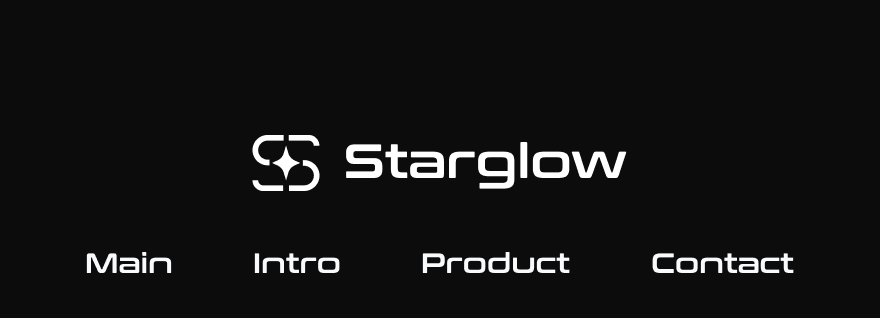
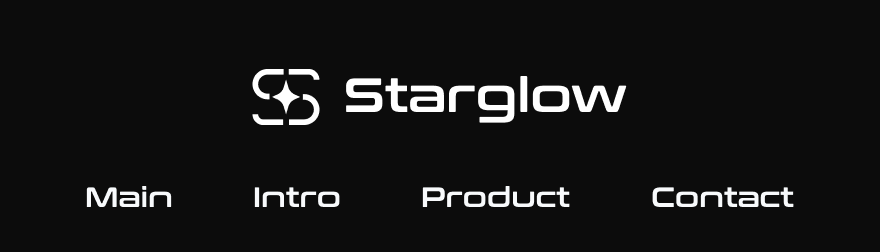
fix

diff --git a/app/components/Body.jsx b/app/components/Body.jsx
@@ -9,18 +9,17 @@ export default function Body() {
         className=""
         style={{
             position: 'relative',
-            marginTop: '5%',
         }}
         >
             <div className="Desktop" style={{
                 overflowX: 'hidden',
             }}>
             <Image
-                src="/images/body_2x.png"
+                src="/images/body.png"
                 alt="Header Image"
                 width={1920}
                 height={1080}
-                style={{ width: '100%', height: 'auto', transform: 'scale(1.35)', display: 'block', marginTop: '28%'}}
+                style={{ width: '100%', height: 'auto', transform: 'scale(1.35)', overflowY: 'hidden', display: 'block', paddingTop: '30%'}}
             />
                 {/* Gitbook Button
                 <a
@@ -44,7 +43,7 @@ export default function Body() {
                 href="#intro"
                 style={{
                     position: 'absolute',
-                    top: '15%',
+                    top: '20.6%',
                     left: '47.9%',
                     width: '4.2%',
                     height: '1.7%',
@@ -63,7 +62,7 @@ export default function Body() {
                 rel="noopener noreferrer"
                 style={{
                     position: 'absolute',
-                    top: '80.7%',
+                    top: '83.6%',
                     left: '13%',
                     width: '19%',
                     height: '1.75%',
@@ -99,7 +98,7 @@ export default function Body() {
                 rel="noopener noreferrer"
                 style={{
                     position: 'absolute',
-                    top: '98.2%',
+                    top: '100.65%',
                     left: '45.5%',
                     width: '2.2%',
                     height: '1%',
@@ -118,7 +117,7 @@ export default function Body() {
                 rel="noopener noreferrer"
                 style={{
                     position: 'absolute',
-                    top: '98.2%',
+                    top: '100.65%',
                     left: '52%',
                     width: '2.5%',
                     height: '1%',
@@ -137,7 +136,7 @@ export default function Body() {
                 rel="noopener noreferrer"
                 style={{
                     position: 'absolute',
-                    top: '98.2%',
+                    top: '100.65%',
                     left: '58.1%',
                     width: '3.65%',
                     height: '1%',
@@ -170,7 +169,7 @@ export default function Body() {
                 id='intro'
                 style={{
                     position: 'absolute',
-                    top: '17.5%',
+                    top: '27%',
                     left: '0%',
                     width: '100%',
                     height: '1%',
@@ -185,7 +184,7 @@ export default function Body() {
                 id='product'
                 style={{
                     position: 'absolute',
-                    top: '65%',
+                    top: '71%',
                     left: '0%',
                     width: '100%',
                     height: '1%',
@@ -200,7 +199,7 @@ export default function Body() {
                 id='contact'
                 style={{
                     position: 'absolute',
-                    top: '93%',
+                    top: '92%',
                     left: '0%',
                     width: '100%',
                     height: '1%',
@@ -226,7 +225,7 @@ export default function Body() {
                 href="#introM"
                 style={{
                     position: 'absolute',
-                    top: '12.3%',
+                    top: '12.36%',
                     left: '43%',
                     width: '14%',
                     height: '1%',
@@ -245,7 +244,7 @@ export default function Body() {
                 rel="noopener noreferrer"
                 style={{
                     position: 'absolute',
-                    top: '72.75%',
+                    top: '74%',
                     left: '5%',
                     width: '61.1%',
                     height: '0.95%',
@@ -281,7 +280,7 @@ export default function Body() {
                 rel="noopener noreferrer"
                 style={{
                     position: 'absolute',
-                    top: '91.9%',
+                    top: '92.45%',
                     left: '36.5%',
                     width: '7.8%',
                     height: '0.6%',
@@ -300,7 +299,7 @@ export default function Body() {
                 rel="noopener noreferrer"
                 style={{
                     position: 'absolute',
-                    top: '91.9%',
+                    top: '92.45%',
                     left: '55.5%',
                     width: '7.8%',
                     height: '0.6%',
@@ -319,7 +318,7 @@ export default function Body() {
                 rel="noopener noreferrer"
                 style={{
                     position: 'absolute',
-                    top: '91.9%',
+                    top: '92.45%',
                     left: '72.5%',
                     width: '12%',
                     height: '0.6%',
@@ -336,7 +335,7 @@ export default function Body() {
                 id='mainM'
                 style={{
                     position: 'absolute',
-                    top: '3%',
+                    top: '0%',
                     left: '0%',
                     width: '100%',
                     height: '1%',

diff --git a/app/components/Header.jsx b/app/components/Header.jsx
@@ -12,17 +12,19 @@ export default function Header() {
             left: 0,
             width: '100%',
             zIndex: 999,
+            overflowY: 'hidden',
         }}
         >
             <div className="Desktop" style={{
                 overflowX: 'hidden',
+                overflowY: 'hidden', 
             }}>
                 <Image
-                    src="/images/header_2x.png"
+                    src="/images/header.png"
                     alt="Header Image"
                     width={1920}
                     height={80}
-                    style={{ width: '100%', height: 'auto', transform: 'scale(1.35)', display: 'block' }}
+                    style={{ width: '100%', height: 'auto', transform: 'scale(1.35)', overflowY: 'hidden', display: 'block' }}
                 />
                     {/* Main */}
                     <a

diff --git a/app/layout.js b/app/layout.js
@@ -22,7 +22,7 @@ export const metadata = {
   title: 'Starglow Protocol',
   description: `Glow and Grow Together with Your Star!`,
   icons: {
-    icon: '/favicon.ico',
+    icon: '/images/favicon.ico',
   },
   
   openGraph: {
@@ -51,6 +51,9 @@ export default function RootLayout({ children }) {
     <html lang="en">
       <body
         className={`${conthrax.variable} ${geistSans.variable} ${geistMono.variable} antialiased`}
+        style={{
+          backgroundColor: '#000',
+        }}
       >
         {children}
       </body>
